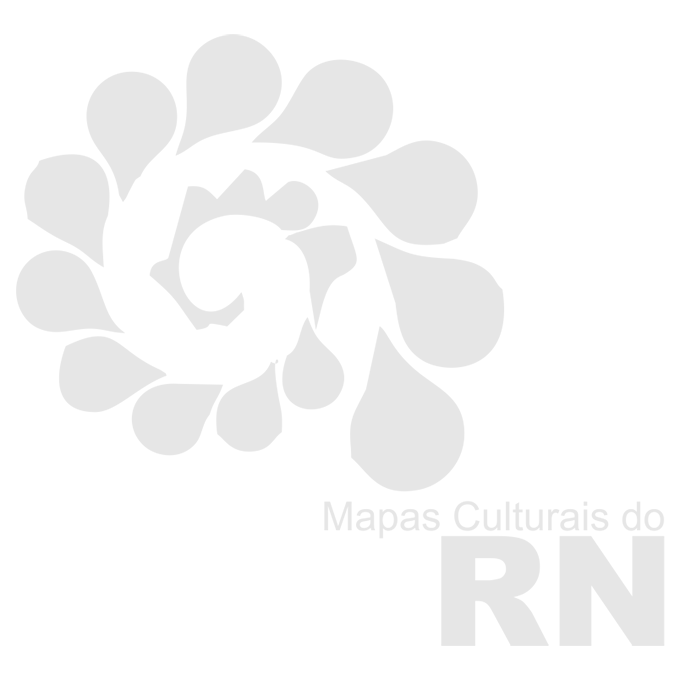
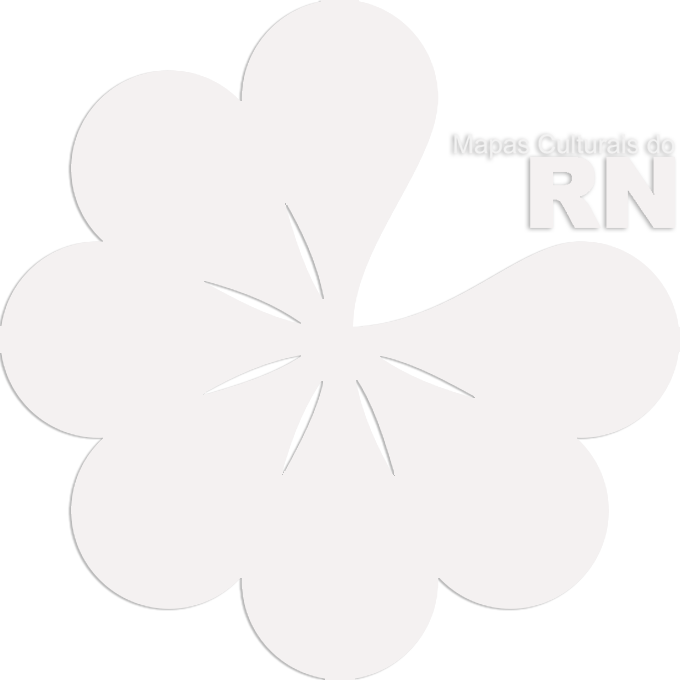
Troca da imagem de fundo e atualização do texto do site principal.

diff --git a/src/protected/application/themes/RN/Theme.php b/src/protected/application/themes/RN/Theme.php
@@ -17,19 +17,21 @@ class Theme extends BaseV1\Theme{
            'site: name' => App::i()->config['app.siteName'],
            'site: description' => App::i()->config['app.siteDescription'],
 
-           'site: of the region' => 'do Estado do Rio Grande do Norte',
-           'site: owner' => 'Secretaria da Cultura do Rio Grande do Norte',
-           'site: by the site owner' => 'pela Secretaria da Cultura do Rio Grande do Norte',
+           'site: of the region' => 'da cidade de Natal',
+            'site: by the site owner' => 'pela Secretaria de Cultura',
 
-           'home: welcome' => "Cultura RN é a plataforma livre, gratuita e colaborativa de mapeamento da Secretaria da Cultura do Rio Grande do Norte sobre o cenário cultural gaúcho. Ficou mais fácil se programar para conhecer as opções culturais que o estado oferece: shows musicais, espetáculos teatrais, sessões de cinema, saraus, entre outras. Além de conferir a agenda de eventos, você também pode colaborar na gestão da cultura do Rio Grande: basta criar seu perfil de agente cultural. A partir deste cadastro, é mais fácil participar dos editais de fomento às artes do Governo do Estado e também divulgar seus eventos, espaços ou projetos.",
-           'home: events' => "Você pode pesquisar eventos culturais nos campos de busca combinada. Como usuário cadastrado, você pode incluir seus eventos na plataforma e divulgá-los gratuitamente.",
-           'home: agents' => "Você pode colaborar na gestão da cultura com suas próprias informações, preenchendo seu perfil de agente cultural. Neste espaço, estão registrados artistas, gestores e produtores; uma rede de atores envolvidos na cena cultural paulistana. Você pode cadastrar um ou mais agentes (grupos, coletivos, bandas instituições, empresas, etc.), além de associar ao seu perfil eventos e espaços culturais com divulgação gratuita.",
-           'home: spaces' => "Procure por espaços culturais incluídos na plataforma, acessando os campos de busca combinada que ajudam na precisão de sua pesquisa. Cadastre também os espaços onde desenvolve suas atividades artísticas e culturais.",
-           'home: projects' => "Reúne projetos culturais ou agrupa eventos de todos os tipos. Neste espaço, você encontra leis de fomento, mostras, convocatórias e editais criados, além de diverNas iniciativas cadastradas pelos usuários da plataforma. Cadastre-se e divulgue seus projetos.",
+            'home: welcome' => "O Mapas Culturais do RN é a plataforma livre, gratuita e colaborativa de mapeamento da Secretaria Municipal de Cultura do Rio Grande do Norte sobre o cenário cultural potiguar. Ficou mais fácil se programar para conhecer as opções culturais que a cidade oferece: shows musicais, espetáculos teatrais, sessões de cinema, saraus, entre outras. Além de conferir a agenda de eventos, você também pode colaborar na gestão da cultura da cidade: basta criar seu perfil de <a href=\"$url_search_agents\" >agente cultural</a>. A partir deste cadastro, fica mais fácil participar dos editais de fomento às artes da Prefeitura e também divulgar seus <a href=\"{$url_search_events}\">eventos</a>, <a href=\"{$url_search_spaces}\">espaços</a> ou <a href=\"$url_search_projects\">projetos</a>.",
+            'home: events' => "Você pode pesquisar eventos culturais da cidade nos campos de busca combinada. Como usuário cadastrado, você pode incluir seus eventos na plataforma e divulgá-los gratuitamente.",
+            'home: agents' => "Você pode colaborar na gestão da cultura da cidade com suas próprias informações, preenchendo seu perfil de agente cultural. Neste espaço, estão registrados artistas, gestores e produtores; uma rede de atores envolvidos na cena cultural potiguar. Você pode cadastrar um ou mais agentes (grupos, coletivos, bandas instituições, empresas, etc.), além de associar ao seu perfil eventos e espaços culturais com divulgação gratuita.",
+            'home: spaces' => "Procure por espaços culturais incluídos na plataforma, acessando os campos de busca combinada que ajudam na precisão de sua pesquisa. Cadastre também os espaços onde desenvolve suas atividades artísticas e culturais na cidade.",
+            'home: projects' => "Reúne projetos culturais ou agrupa eventos de todos os tipos. Neste espaço, você encontra leis de fomento, mostras, convocatórias e editais criado pela Secretaria Municipal de Cultura, além de diversas iniciativas cadastradas pelos usuários da plataforma. Cadastre-se e divulgue seus projetos.",
+            'home: colabore' => "Colabore com o Mapas Culturais do Rio Grande do Norte",
 
-           'home: abbreviation' => "SEDAC",
-           'home: home_devs' => 'Existem algumas maneiras de desenvolvedores interagirem com o CulturaRN. A primeira é através da nossa <a href="https://github.com/hacklabr/mapasculturais/blob/master/doc/api.md" target="_blank">API</a>. Com ela você pode acessar os dados públicos no nosso banco de dados e utilizá-los para desenvolver aplicações externas. Além disso, o Mapas Culturais é construído a partir do sofware livre <a href="http://institutotim.org.br/project/mapas-culturais/" target="_blank">Mapas Culturais</a>, criado em parceria com o <a href="http://institutotim.org.br" target="_blank">Instituto TIM</a>, e você pode contribuir para o seu desenvolvimento através do <a href="https://github.com/hacklabr/mapasculturais/" target="_blank">GitHub</a>.',
-           'home: colabore' => "Colabore com o CulturaRN",
+            'home: abbreviation' => "SMC",
+            'home: home_devs' => 'Existem algumas maneiras de desenvolvedores interagirem com o Mapas Culturais do RN. A primeira é através da nossa <a href="https://github.com/hacklabr/mapasculturais/blob/master/doc/api.md" target="_blank">API</a>. Com ela você pode acessar os dados públicos no nosso banco de dados e utilizá-los para desenvolver aplicações externas. Além disso, o SP Cultura é construído a partir do sofware livre <a href="http://institutotim.org.br/project/mapas-culturais/" target="_blank">Mapas Culturais</a>, criado em parceria com o <a href="http://institutotim.org.br" target="_blank">Instituto TIM</a>, e você pode contribuir para o seu desenvolvimento através do <a href="https://github.com/hacklabr/mapasculturais/" target="_blank">GitHub</a>.',
+
+            'search: verified results' => 'Resultados da SMC',
+            'search: verified' => "SMC"
         ];
     }
 
